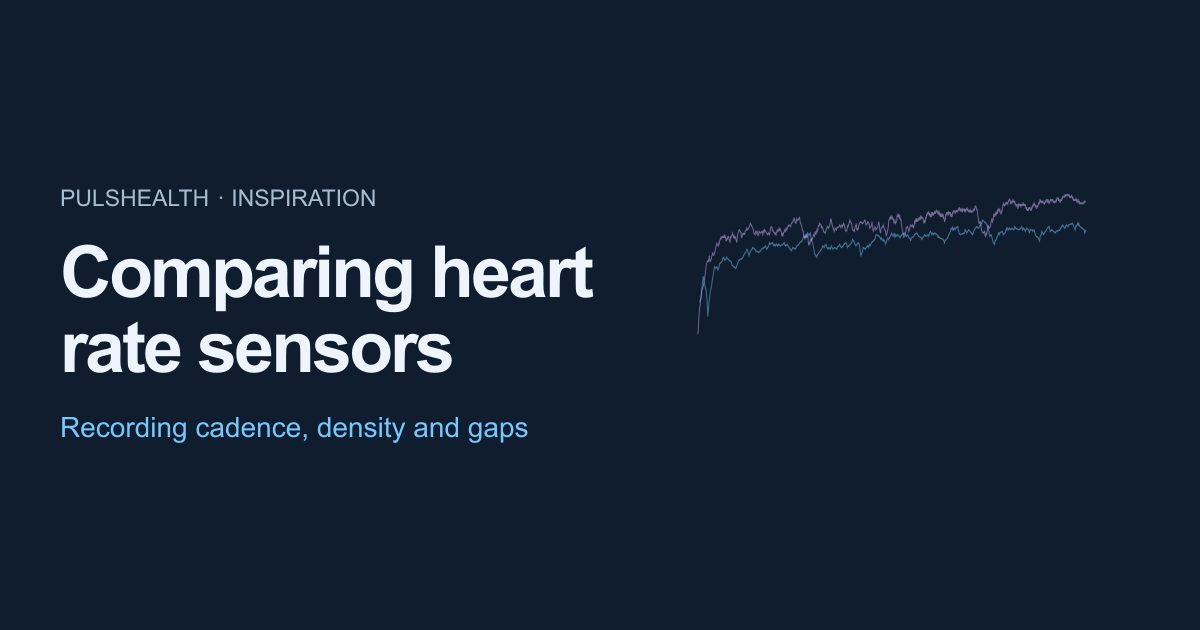
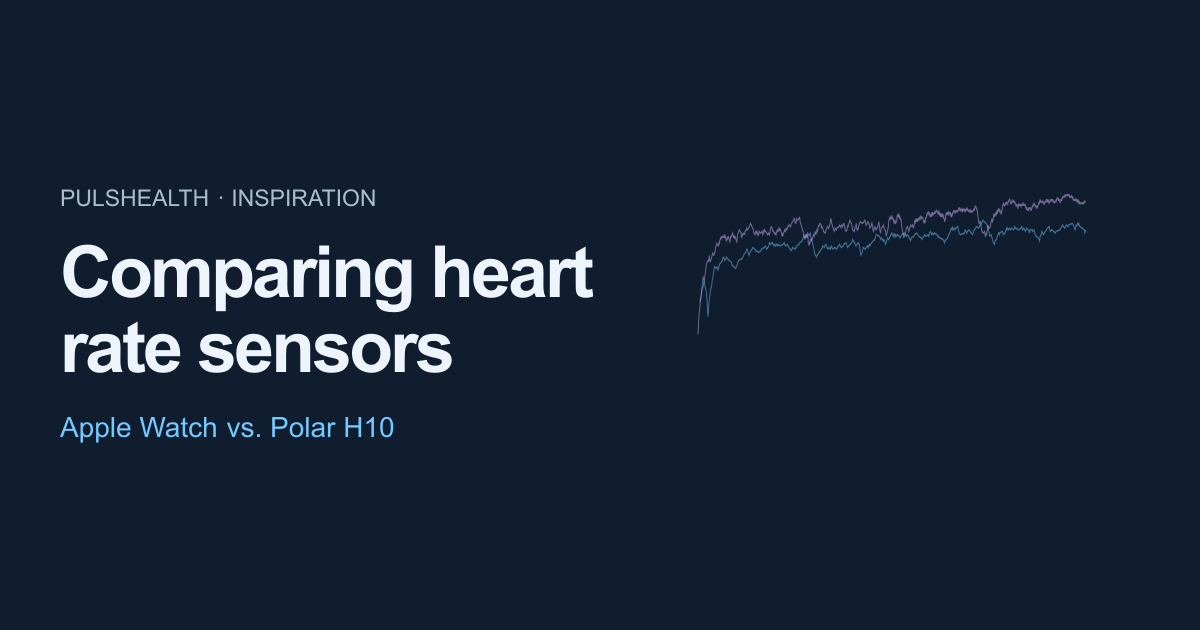
site: identify the Polar H10 in sensor comparisons
site: identify the Polar H10 in sensor comparisons

Use the confirmed monitor model throughout the comparison and sharing card, with concise chest-strap, electrical-sensing and Bluetooth details linked to Polar's official reference.

Changed region(s): [[0.0308, 0.6635, 0.4625, 0.6937]]

diff --git a/site/src/components/examples/sensor-review.tsx b/site/src/components/examples/sensor-review.tsx
@@ -109,7 +109,13 @@ export function SensorReview({ compact = false }: { compact?: boolean }) {
   const activeWatch = Math.min(watchIndex, watchRuns.length - 1);
   const report: SensorReport = {
     ...data,
-    recordings: [watchRuns[activeWatch], data.recordings[1]],
+    recordings: [
+      watchRuns[activeWatch],
+      {
+        ...data.recordings[1],
+        label: data.monitor?.name ?? "Bluetooth sensor",
+      },
+    ],
   };
   const poster = useRef<SVGSVGElement>(null),
     end = Math.max(...report.recordings.map((run) => run.seconds)),
@@ -344,7 +350,7 @@ export function SensorReview({ compact = false }: { compact?: boolean }) {
                 </span>
                 <span>
                   <i style={{ background: colors[1] }} />
-                  External monitor
+                  {report.monitor?.name ?? "External monitor"}
                 </span>
               </div>
               <p>

diff --git a/site/scripts/gen-inspiration-cards.tsx b/site/scripts/gen-inspiration-cards.tsx
@@ -48,7 +48,7 @@ for (const example of [{ slug: "index", title: "Inspiration" }, ...EXAMPLES]) {
   ).toLocaleString("en-US");
   const subtitle =
     example.slug === "heart-rate-sensors"
-      ? "Recording cadence, density and gaps"
+      ? "Apple Watch vs. Polar H10"
       : example.slug === "sleep-and-parenthood"
         ? "Sleep length, interruptions and the overall pattern"
         : example.slug === "year-in-review"

diff --git a/site/README.md b/site/README.md
@@ -344,4 +344,4 @@ The sleep-through-parenthood project uses `sleep-recorded.json`, containing rela
 
 The sleep view compares aggregate duration distributions, recorded awakenings, stage proportions and broad post-arrival periods. Period controls select equal windows before and after; missing recordings never count as zero. A one-minute awake threshold defines interruption episodes. PNG sharing uses the same aggregate model, without individual nights or calendar dates.
 
-The sensor comparison includes four nearby Watch runs matched to the external-monitor route. Normalized shared-frame paths and bidirectional sampled point-to-track metrics are display-only; absolute coordinates, workout IDs and dates remain private. Recordings are separate runs, so the charts compare recorded cadence and density rather than paired accuracy. The optional monitor profile supports verified hardware details; the current records identify only a Bluetooth heart-rate monitor.
+The sensor comparison includes four nearby Watch runs matched to the external-monitor route. Normalized shared-frame paths and bidirectional sampled point-to-track metrics are display-only; absolute coordinates, workout IDs and dates remain private. Recordings are separate runs, so the charts compare recorded cadence and density rather than paired accuracy. The optional monitor profile supports verified hardware details; the featured monitor is a contributor-confirmed Polar H10, with chest-strap, ECG and Bluetooth details linked to Polar’s official product reference. The synced writer itself identifies only a Bluetooth device.
